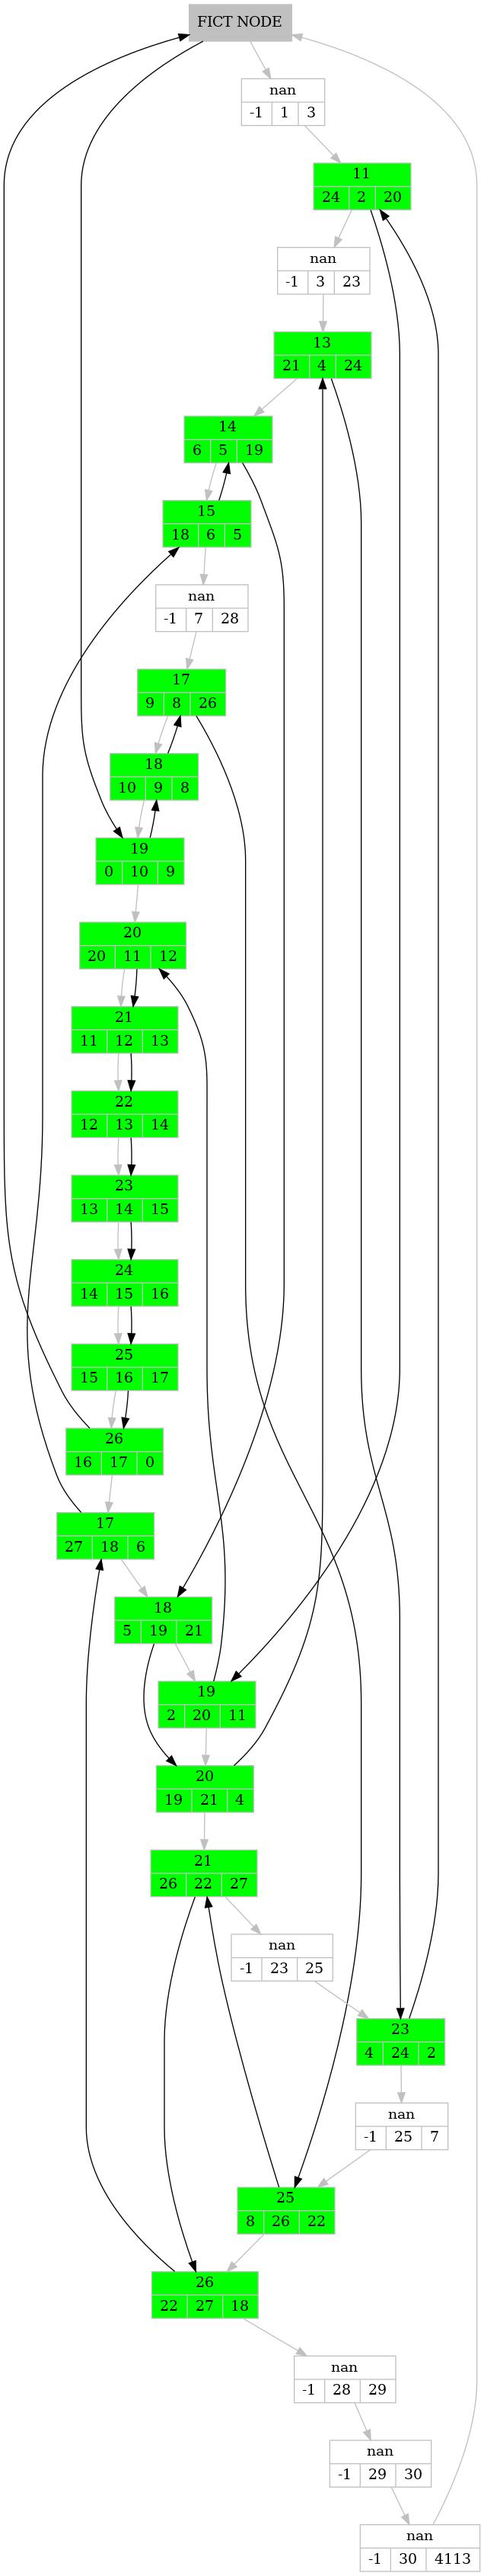
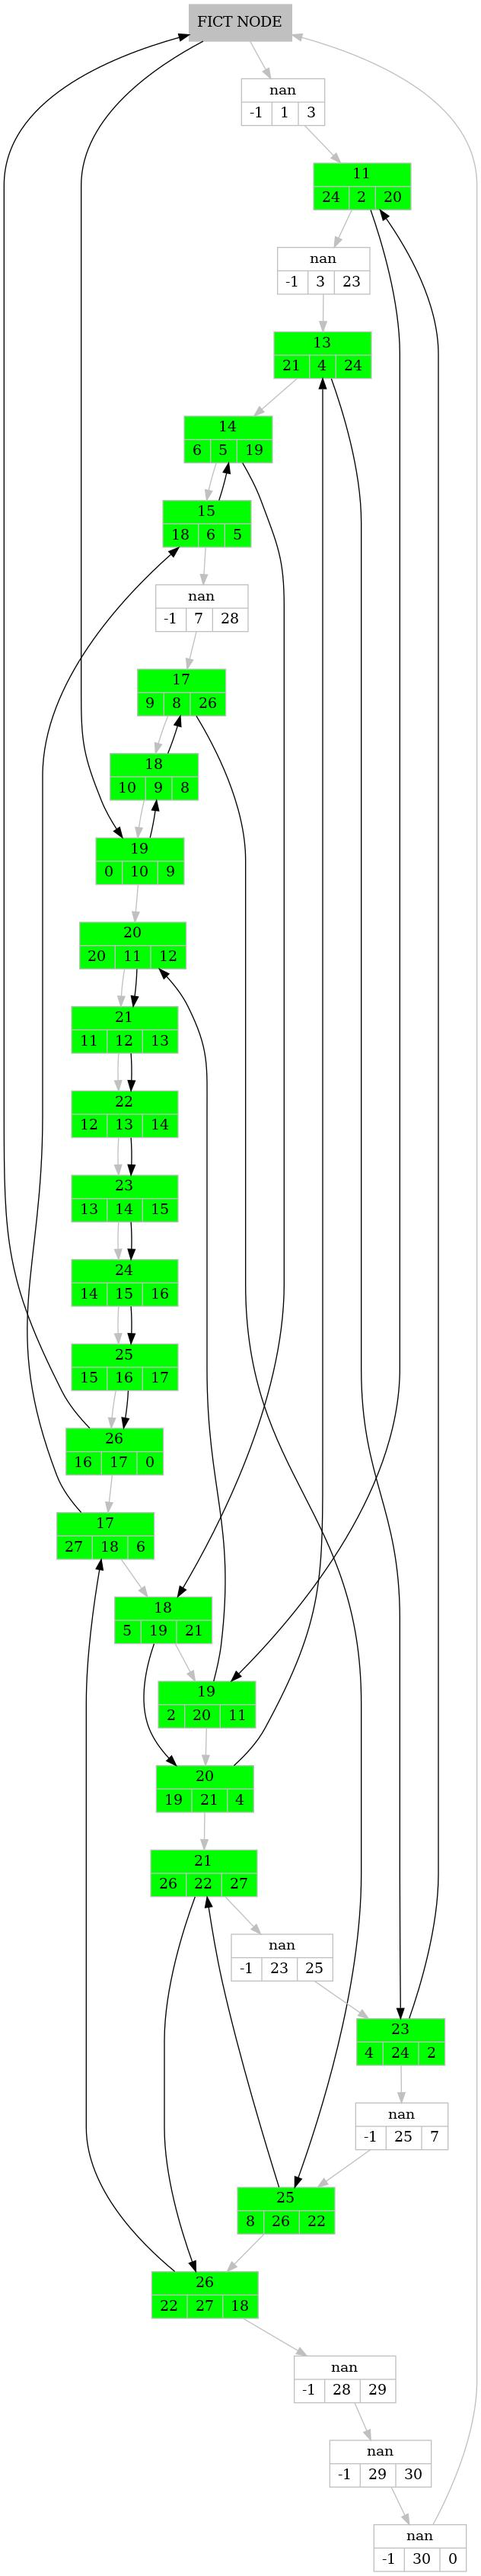
Real and logic list dump

diff --git a/mainFiles/listFuncs.cpp b/mainFiles/listFuncs.cpp
@@ -372,7 +372,7 @@ void realListDump(List* list, const char* filename, const char* graph_filename)
     }
     //For last
     fprintf(graph_file, "\"%p\" [label=\"{%lg|{%d|%zu|%zu}}\", ", &referTo(list->capacity - 1),
-            referTo(list->capacity - 1).value, referTo(list->capacity - 1).prev, list->capacity -1, referTo(list->capacity).next); 
+            referTo(list->capacity - 1).value, referTo(list->capacity - 1).prev, list->capacity -1, 0); 
     fprintf(graph_file, "fillcolor=%s]\n", STATUS_COLORS[(int)referTo(list->capacity - 1).status]);
 
     //Just fucking physical pointers
